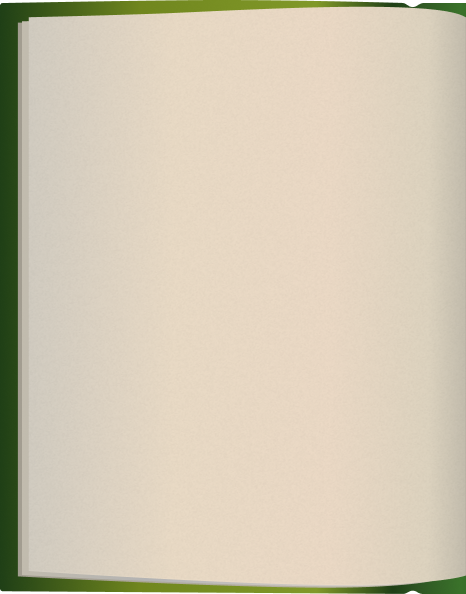
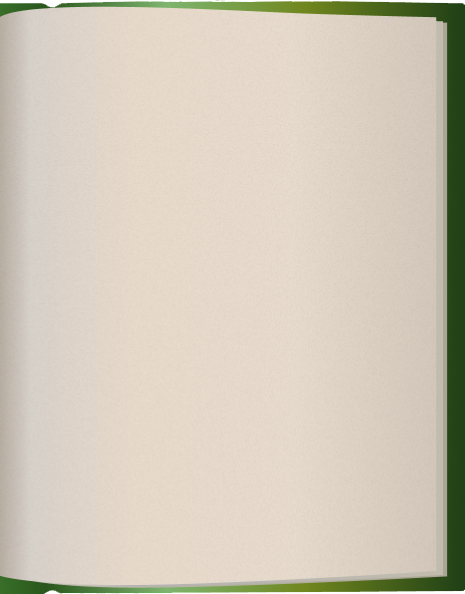
main flow ready with adaptation

Changed region(s): [[0.0, 0.0, 1.0, 1.0]]

diff --git a/src/components/MyBook/MyBook.jsx b/src/components/MyBook/MyBook.jsx
@@ -1,18 +1,17 @@
 import HTMLFlipBook from "react-pageflip";
 import { Page } from "../Page";
 import { PageCover } from "../PageCover/PageCover";
+import volume from "../../assets/volume.png";
 import openarrow from "../../assets/oppenarrow.svg";
-import nextarrow from "../../assets/rightarrow.svg"
+import nextarrow from "../../assets/rightarrow.svg";
 import { stories } from "../../Util/data";
-import { useState, useRef} from "react";
+import { useState, useRef } from "react";
 
 import "./book.scss";
 
 export function MyBook() {
   const bookRef = useRef(null);
   const [bookPage, setBookPage] = useState(0);
-
-
 
   const nextButtonClick = () => {
     bookRef.current.pageFlip().flipNext();
@@ -23,13 +22,12 @@ export function MyBook() {
   };
 
   const onPage = (e) => {
-    if(e.data === 0) {
+    if (e.data === 0) {
       setBookPage(e.data);
     } else if (e.data === 1) {
       setBookPage(e.data);
     }
   };
-
 
   return (
     <div className="container">
@@ -38,9 +36,9 @@ export function MyBook() {
           className="book"
           width={435}
           height={560}
-          minWidth={295}
+          minWidth={270}
           maxWidth={435}
-          minHeight={390}
+          minHeight={350}
           maxHeight={560}
           size={"stretch"}
           showCover={true}
@@ -50,24 +48,38 @@ export function MyBook() {
         >
           <PageCover number="0"></PageCover>
           {stories.map((story, index) => (
-            <Page key={index} number={index + 1} img={story.img} text={story.text} />
+            <Page
+              key={index}
+              number={index + 1}
+              img={story.img}
+              text={story.text}
+            />
           ))}
         </HTMLFlipBook>
       </div>
       {bookPage === 0 ? (
         <button className="open-button" onClick={nextButtonClick}>
-           <img src={openarrow} alt="open-book-arrow" />
+          <img src={openarrow} alt="open-book-arrow" />
         </button>
       ) : (
-          <div className="button-container">
-            <button className="previous-button" type="button" onClick={prevButtonClick}>
-              <img src={openarrow} alt="previous-arrow" />
-            </button>
-            <button className="next-button" type="button" onClick={nextButtonClick}>
+        <div className="button-container">
+          <button
+            className="previous-button"
+            type="button"
+            onClick={prevButtonClick}
+          >
+            <img src={openarrow} alt="previous-arrow" />
+          </button>
+          <button
+            className="next-button"
+            type="button"
+            onClick={nextButtonClick}
+          >
             <img src={nextarrow} alt="next-arrow" />
-            </button>
-          </div>
+          </button>
+        </div>
       )}
+      <img className="volume" src={volume} alt="volume" />
     </div>
   );
 }

diff --git a/src/components/Page/page.scss b/src/components/Page/page.scss
@@ -17,7 +17,7 @@
   width: 465px;
   height: 595px;
   content: "";
-  background: url("../../assets/rptestR.png");
+  background: url("../../assets/rightpage.png");
   background-size: cover;
 
   @include for-small-desktop {
@@ -53,7 +53,7 @@
   width: 465px;
   height: 595px;
   content: "";
-  background: url("../../assets/leftpageok.png");
+  background: url("../../assets/leftpage.png");
   background-size: cover;
 
   @include for-small-desktop {
@@ -85,8 +85,8 @@
   }
 
   @include for-small-phone {
-    height: 340px;
-    padding-top: 25px;
+    height: 320px;
+    padding-top: 15px;
   }
 
   &__story {
@@ -137,7 +137,7 @@
     }
 
     @include for-small-phone {
-        left: 143px;
+        left: 130px;
     }
 
     
@@ -171,7 +171,7 @@
     @include for-small-phone {
         width: 190px;
         height: 35px;
-        font-size: 12px;
+        font-size: 11px;
     }
   }
 }

diff --git a/src/components/MyBook/book.scss b/src/components/MyBook/book.scss
@@ -25,7 +25,7 @@
   }
 
   @include for-small-phone {
-    max-width: 100%;
+    max-width: 280px;
   }
 }
 
@@ -134,4 +134,25 @@
   @include for-large-phone {
     bottom: -100px;
   }
+
+  @include for-small-phone {
+    bottom: -45px;
+  }
+
+}
+
+.volume {
+  position: absolute;
+  bottom: 0px;
+  right: 0px;
+  cursor: pointer;
+
+  @include for-large-phone {
+    bottom: -89px;
+  }
+
+  @include for-small-phone {
+    bottom: -34px;
+  }
+
 }

diff --git a/src/App.scss b/src/App.scss
@@ -5,15 +5,12 @@
   height: 100vh;
   background: url("../../react-flip-book/src/assets/background.svg");
   background-size: cover;
-  justify-content: center;
-  align-items: center;
   overflow: hidden;
 
   @include for-large-phone {
-    display:flex;
+    display: flex;
     justify-content: center;
     align-items: center;
-}
-}
+  }
 
-
+}

diff --git a/src/components/Page/Page.jsx b/src/components/Page/Page.jsx
@@ -1,8 +1,6 @@
 import React from "react";
 import "./page.scss";
-import story from "../../assets/story1.png";
 import frame from "../../assets/frame.png";
-import rightpagex from "../../assets/rightpagex.png";
 
 export const Page = React.forwardRef(({img, text, number}, ref) => {
   const pageClass = number % 2 === 0 ? "rightpage" : "leftpage" ;

diff --git a/src/components/PageCover/pageCover.scss b/src/components/PageCover/pageCover.scss
@@ -29,9 +29,9 @@
 
     @include for-small-phone {
         width: 280px;
-        height: 390px;
-        top: -15px;
-        left: -7px;
+        height: 360px;
+        top: -9px;
+        left: -5px;
     }
   }
 }
